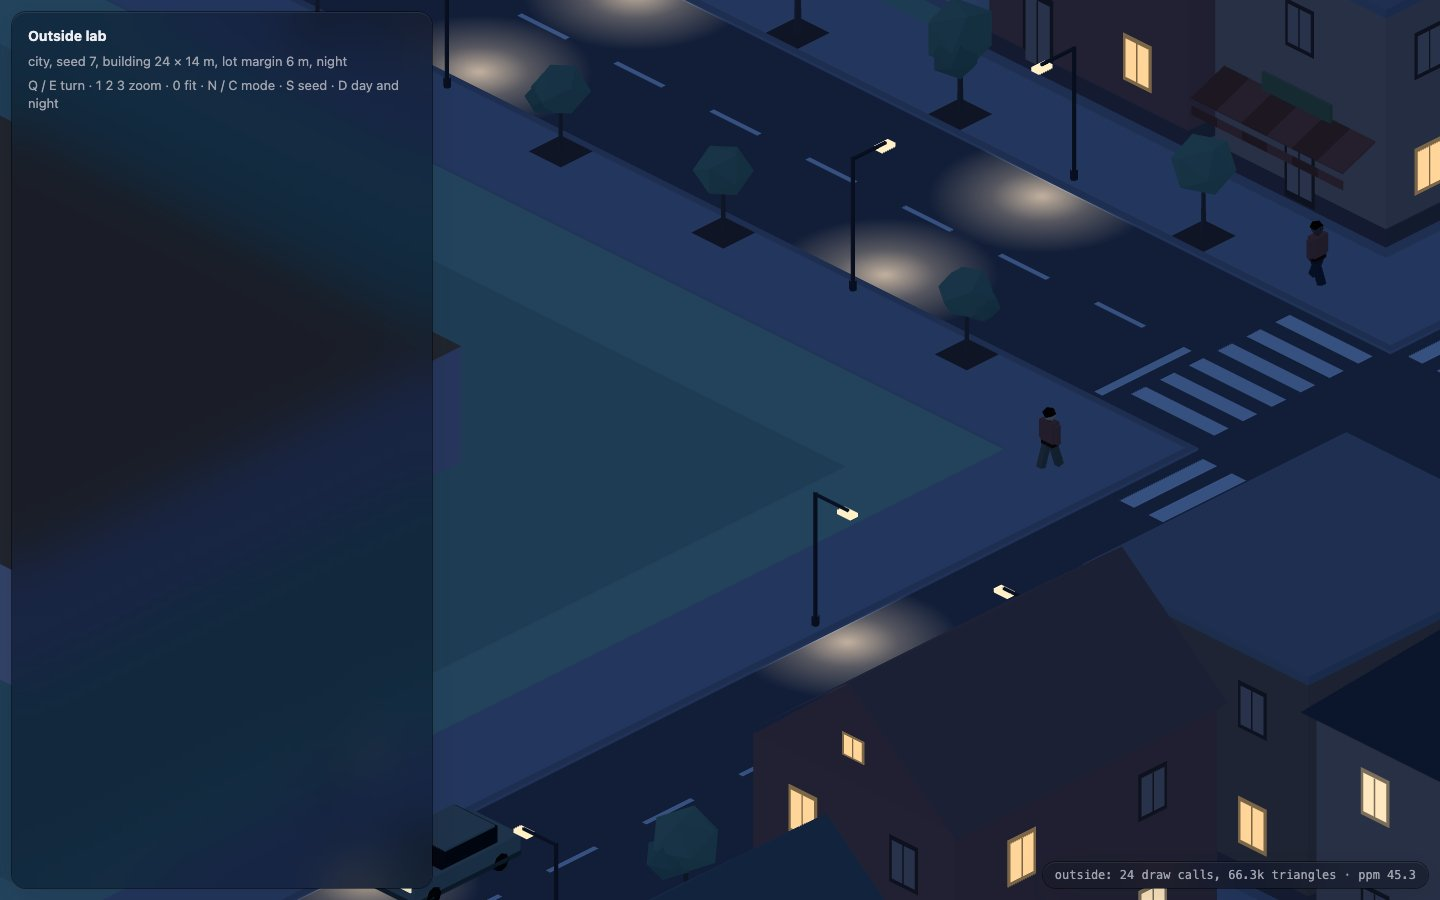
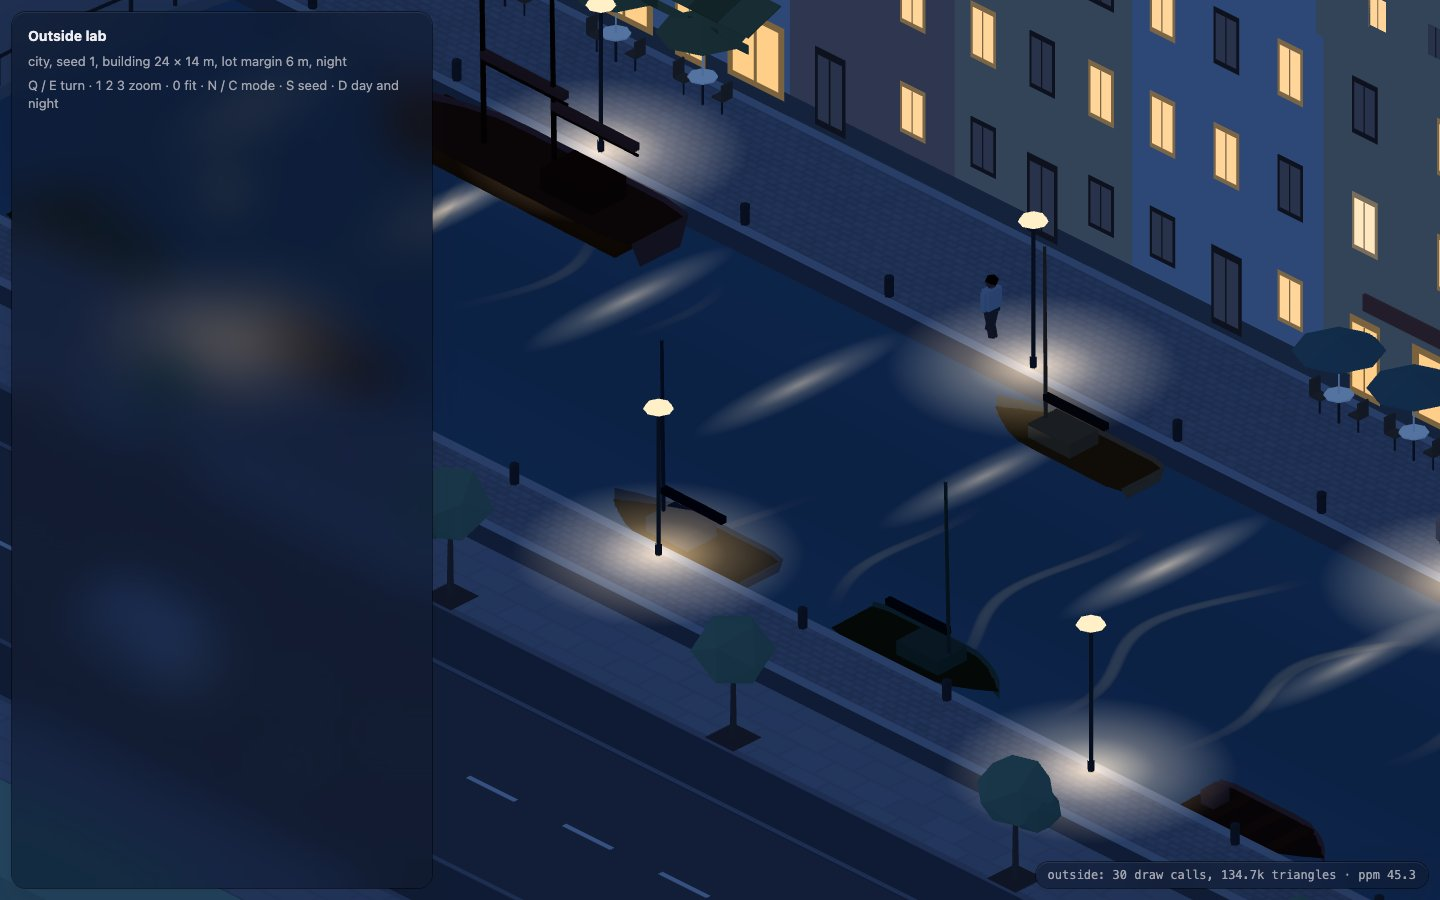
outside: pass-3 city shots (day and night, far, mid, near, street, turned), notes' cost table for the town

diff --git a/docs/design/outside/notes.md b/docs/design/outside/notes.md
@@ -35,9 +35,10 @@ string) feeds a mulberry32 generator and a small value-noise fbm, so the same in
   block: a continuous row of painted houses (3 to 6 storeys where the sight rule lets them rise, neighbours never the
   same colour, about a third red brick) along every street, round a courtyard of trees. Roofs are slate or tile
   gables along the street, mansards, now and then flat; some carry dormers, chimneys, a wall dormer with its own
-  gable, or a stepped gable at a corner. A third of the ground floors are shops, many under awnings. One block by
-  the lot is often a square (setts, a fountain or a statue, trees in rows, benches, café tables), a few further out
-  are parks, and one building out where it may rise has a copper mansard and a tower with a copper spire.
+  gable, or at a corner a stepped gable or a turret under a copper cap. A third of the ground floors are shops, many
+  under awnings. One block by the lot is often a square (setts, a fountain or a statue, trees in rows, benches, café
+  tables), a few further out are parks, and one building out where it may rise has a copper mansard and a tower with
+  a copper spire.
 - **The canal.** The first block out on one side (chosen by the seed) is the canal block, one long block with no
   cross streets: a narrow quay, 11 m of water, a wide quay with café tables under parasols, a row of narrow canal
   houses with their gables (often stepped) to the water, and a strip of yard. The quays are an embankment 0.47 m
@@ -75,10 +76,12 @@ gets 10 m of headroom, so offices added one at a time regenerate the land every 
 | --- | --- | --- |
 | Nature, 24 × 14 m building | 12 | 99k |
 | Nature, 60 × 40 m campus | 12 | 108k |
-| City, day / night | 22 / 24 | 63k to 74k |
+| City, 24 × 14 m building, day / night | 28 / 30 | 127k to 135k |
+| City, 60 × 40 m campus, day | 27 | 147k |
 
-Generation takes 25–90 ms for nature (river and path distances are bucketed) and under 5 ms for the city. A frame's
-`update` (40 cars, 60 people) takes about 0.1 ms. Nothing casts a real-time shadow. An InstancedMesh is culled as a whole, so these counts hold at every zoom.
+Generation takes 25–90 ms for nature (river and path distances are bucketed) and under 10 ms for the city. Nothing
+casts a real-time shadow. An InstancedMesh is culled as a whole, so these counts hold at every zoom. Parked bikes are the
+town's biggest triangle cost, so racks stand only in short rows near the lot.
 
 ## Wiring it into the world (for the lead, at merge time)
 

diff --git a/docs/design/outside/copenhagen.md b/docs/design/outside/copenhagen.md
@@ -53,9 +53,9 @@ At Sims scale (a person is 1.35 m, a storey 2.95 m), round the office's lot:
 | 2, 3 | Every street front is a continuous row of houses 3 to 6 storeys tall (the sight rule keeps the ones across from the lot at 3), with a courtyard of trees inside the block. A few blocks are squares. |
 | 4, 5 | A straight canal runs past one side of the lot, one street away. Across it, a row of narrow houses with their gables to the water, cafés with awnings on the quay, and moored boats (a two-masted wooden ship, small sailboats, open motor boats) bobbing. A footbridge crosses it. |
 | 6 | Many roofs turn a gable to the street; the canal houses and a few corner houses have stepped gables. Roofs are dark slate or red tile. |
-| 7 | A civic building with a copper-green roof and a slim copper spire, out where it cannot hide the office. |
+| 7 | A civic building with a copper-green mansard and a tower with a slim copper spire, out where it cannot hide the office; here and there a corner house with a turret under a pointed copper cap. |
 | 8 | Every street: pavement 2.6 m, bike track 1.8 m (on a level between road and pavement, a kerb each side), a 6 m carriageway; a blue band carries each track across each junction; car stop lines stand back. |
 | 9 | More cyclists than cars (up to 60 cyclists, at most 30 cars and buses), some on cargo bikes; bikes parked in rows along the pavements; a yellow bus on a route. |
-| 10 | Lamps hang on wires across the street, house to house (a slim mast where there is no house); setts on the side streets and squares, granite slabs on the pavements. At night the windows and café fronts are warm, the hanging lamps throw pools on the road, and the canal carries their light. |
+| 10 | Lamps hang on wires across the street, house to house (a slim mast at the kerb where one side has no house; the canal's street is lit from lamp posts on the quays); setts on some streets, the squares and the quays, granite slabs on the pavements. At night the windows and café fronts are warm, the hanging lamps throw pools on the road, and the canal carries the light of the quay. |
 
 The calm saturation rule stays: the surroundings frame the office and never compete with it.
